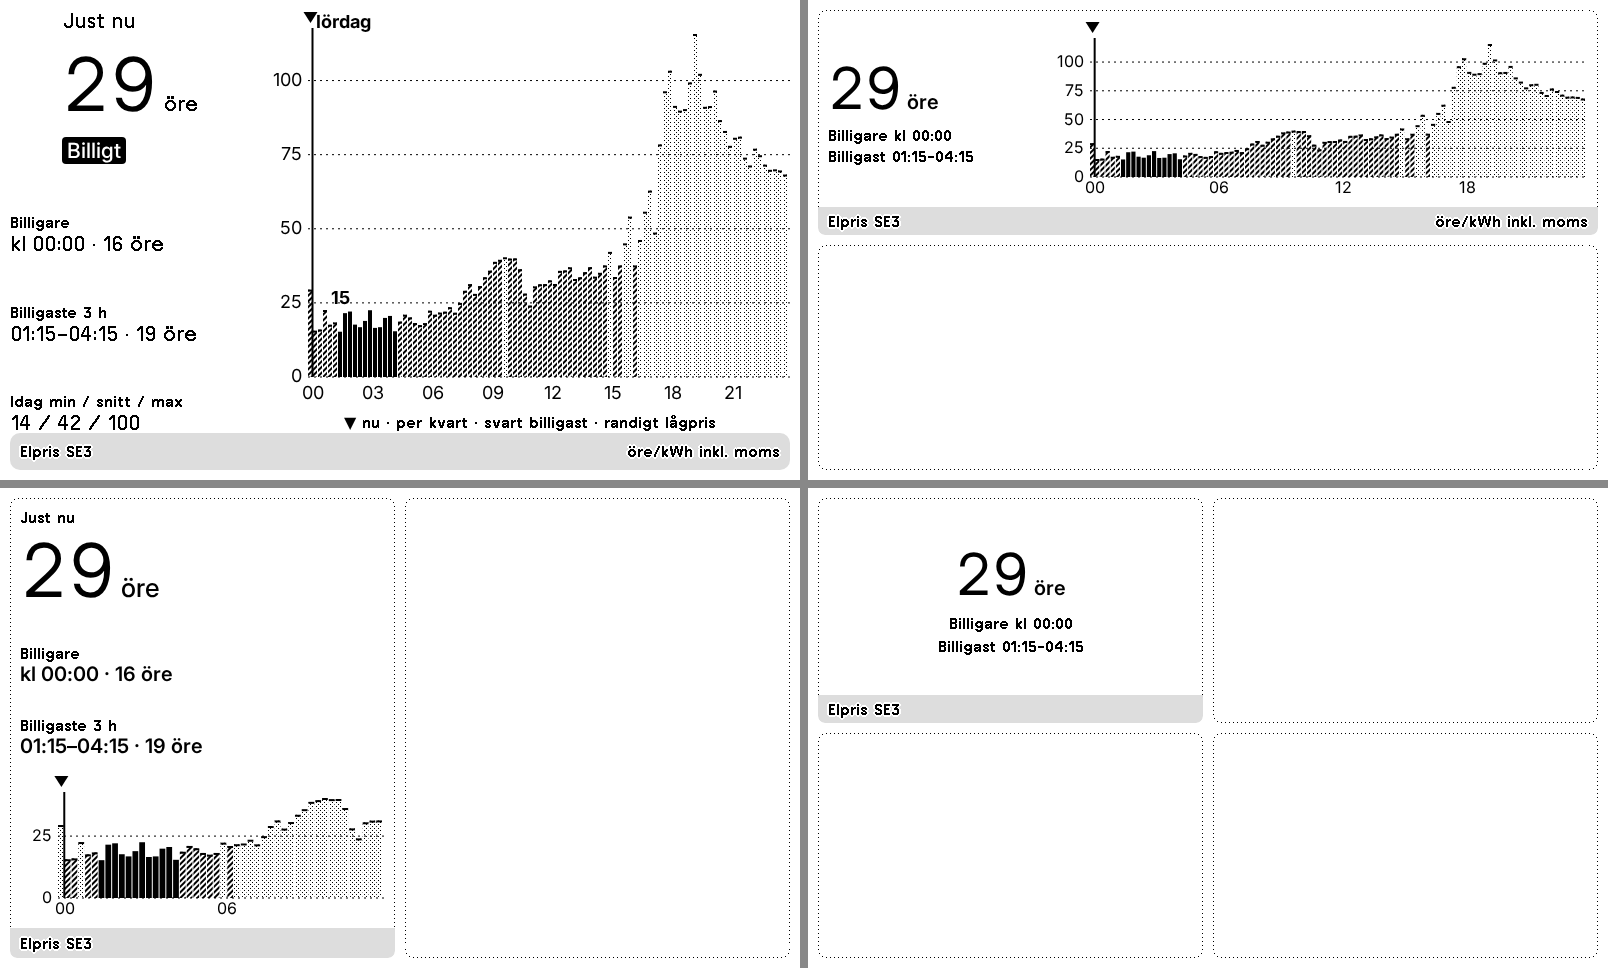
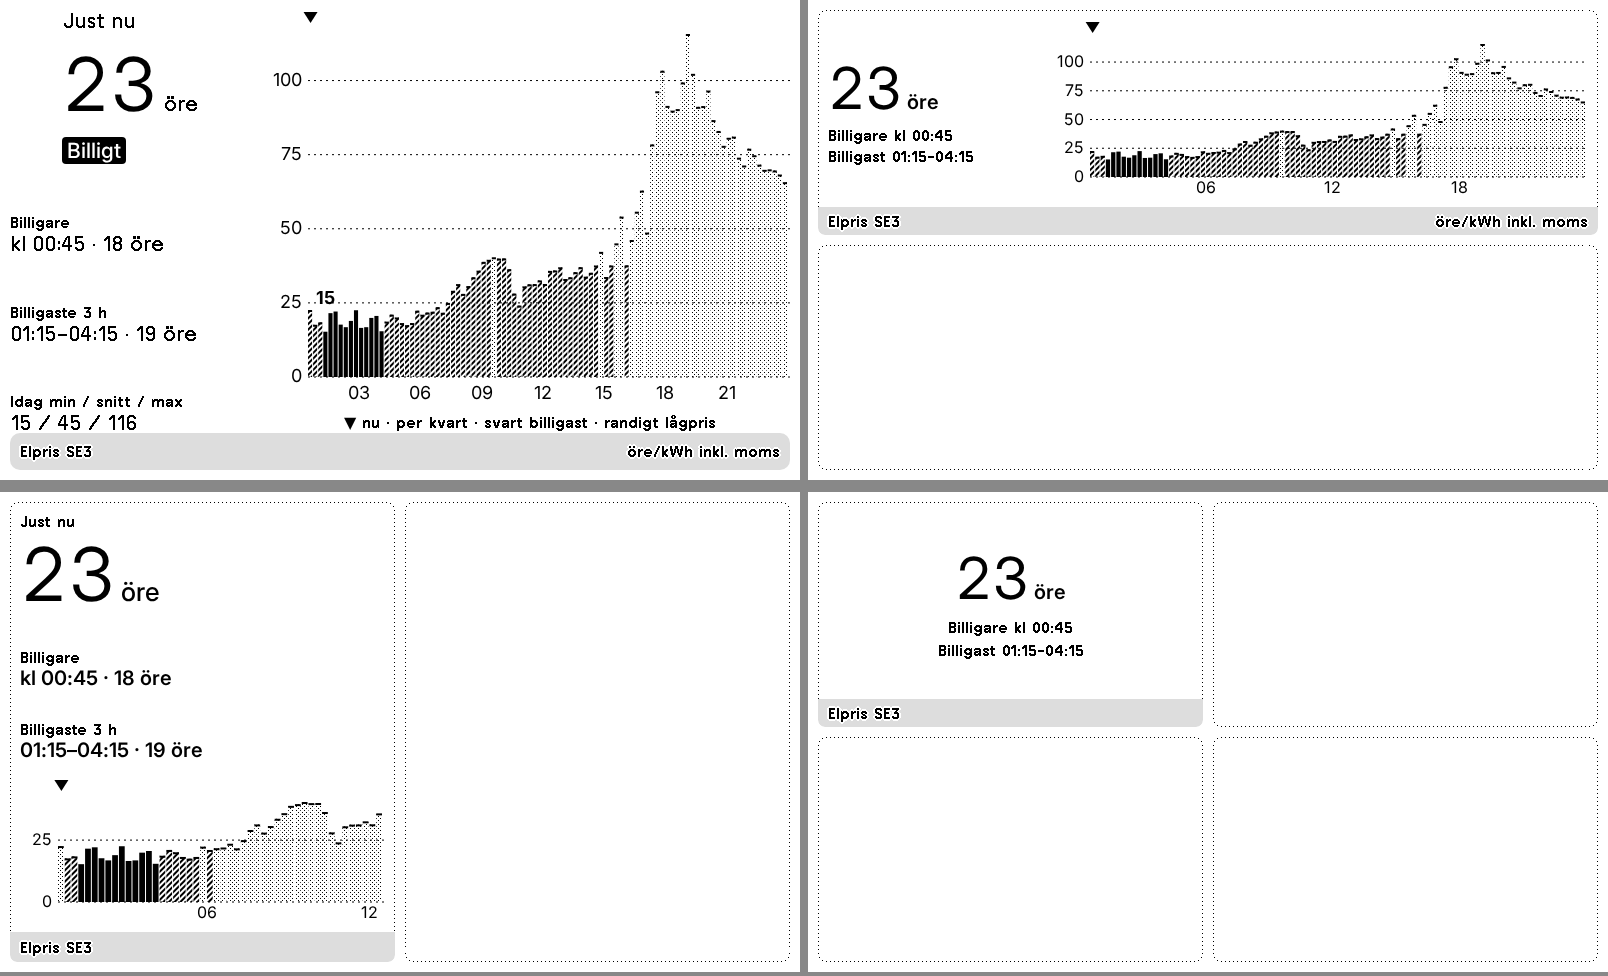
Support portrait and TRMNL X; drop inline styles
Layouts stack with portrait: classes and grow with lg: on TRMNL X.
Inline style attributes replaced by framework classes (dynamic progress
bar widths excepted).

diff --git a/README.md b/README.md
@@ -6,6 +6,7 @@ Plugin för [TRMNL](https://trmnl.com) (e-pappersskärm). Spotpris på el för S
 
 Alla fyra layouter (full, half_horizontal, half_vertical, quadrant) finns, så den fungerar i mashups.
 Se [`preview/overview.png`](preview/overview.png).
+Testad i liggande och stående format samt på TRMNL X: [stående](preview/full.portrait.png), [TRMNL X](preview/full.x.png).
 
 ## Inställningar
 
